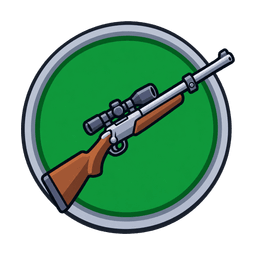
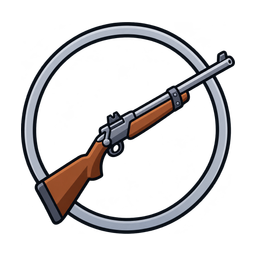
Regenerate three low-tier hunting rifles and the Iron Shot pack
The Wooden, Iron and Copper rifles (T1–T3) all carried a scope, which
STYLE.md §4 puts at T4, so the cheapest rifles looked like mid-tier
ones. Wooden and Iron also sat on a filled green disc inside the rim,
and so did the Iron Shot ammo pack.

- build-manifest.mjs: the T1–T3 prompts name open iron sights with
  nothing on the receiver. They and the pack's prompt say the inside of
  the rim is empty.
- The rifles reference the shipped hunt:steel_rifle, so the silhouette
  matches the T4 they lead to. The pack references hunt:steel_shot_pack.
- icons.map.json records the new job ids and urls. The PNGs are
  re-baked, and the other 480 baked byte-identical.
- STYLE.md changelog entry.

diff --git a/assets/icons/STYLE.md b/assets/icons/STYLE.md
@@ -355,6 +355,16 @@ Price text across every banner is gold `#f1c40f`.
 
 ## Changelog
 
+- **2026-11-02** — **Hunting: 3 rifles and 1 ammo pack regenerated.** The
+  Wooden, Iron and Copper rifles (T1–T3) all carried a scope, which §4 puts at
+  T4, so the bottom of the ladder looked like the middle. Wooden and Iron also
+  sat on a filled disc. Their prompts now name open iron sights with nothing
+  on the receiver. `iron_shot_pack` sat on a filled disc too. Every prompt
+  says the inside of the rim is empty. Rifles referenced the shipped
+  `hunt:steel_rifle` (`309b1ed7-…`) so the silhouette matches the T4 they lead
+  to; the pack referenced `hunt:steel_shot_pack`. 1.5 credits each, all first
+  try.
+
 - **2026-11-02** — **Fishing rods regenerated: 5 of 5.** Every tier had picked
   up the rifle anchor's outline (stocks on fiberglass and carbon, a scope and
   stock on titanium and crystal), and bamboo sat on a smudged filled disc. The
